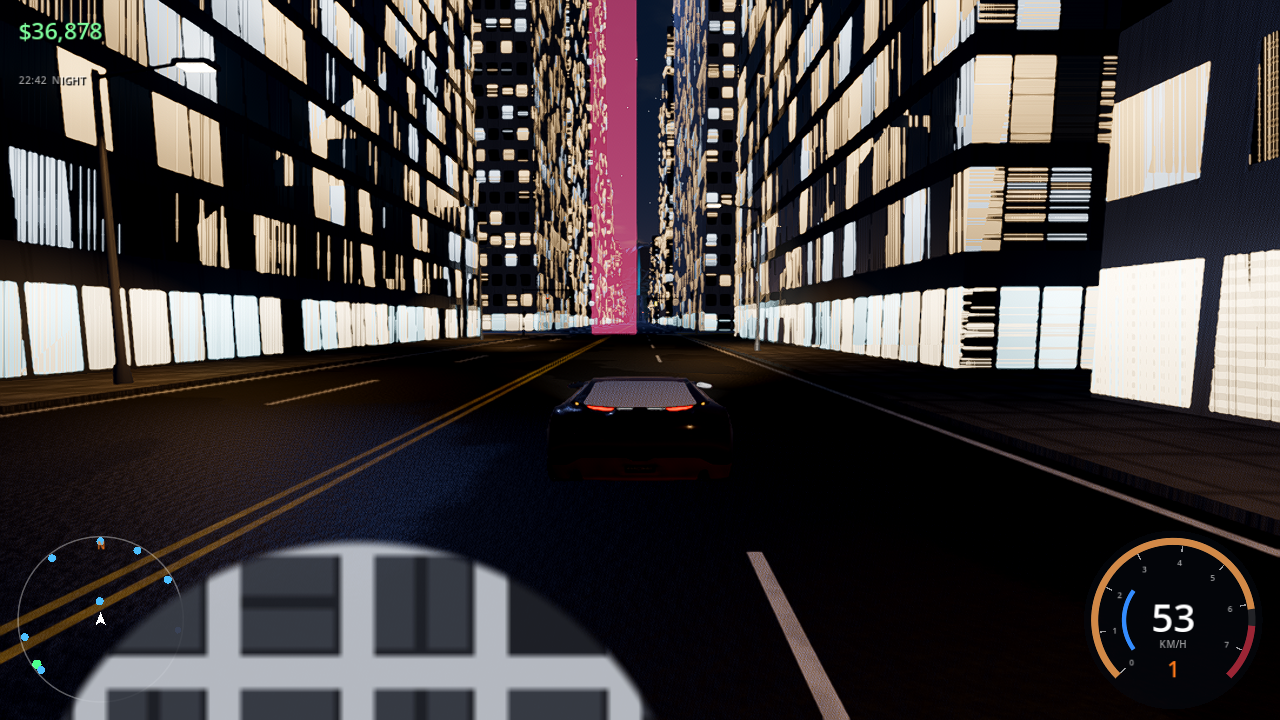
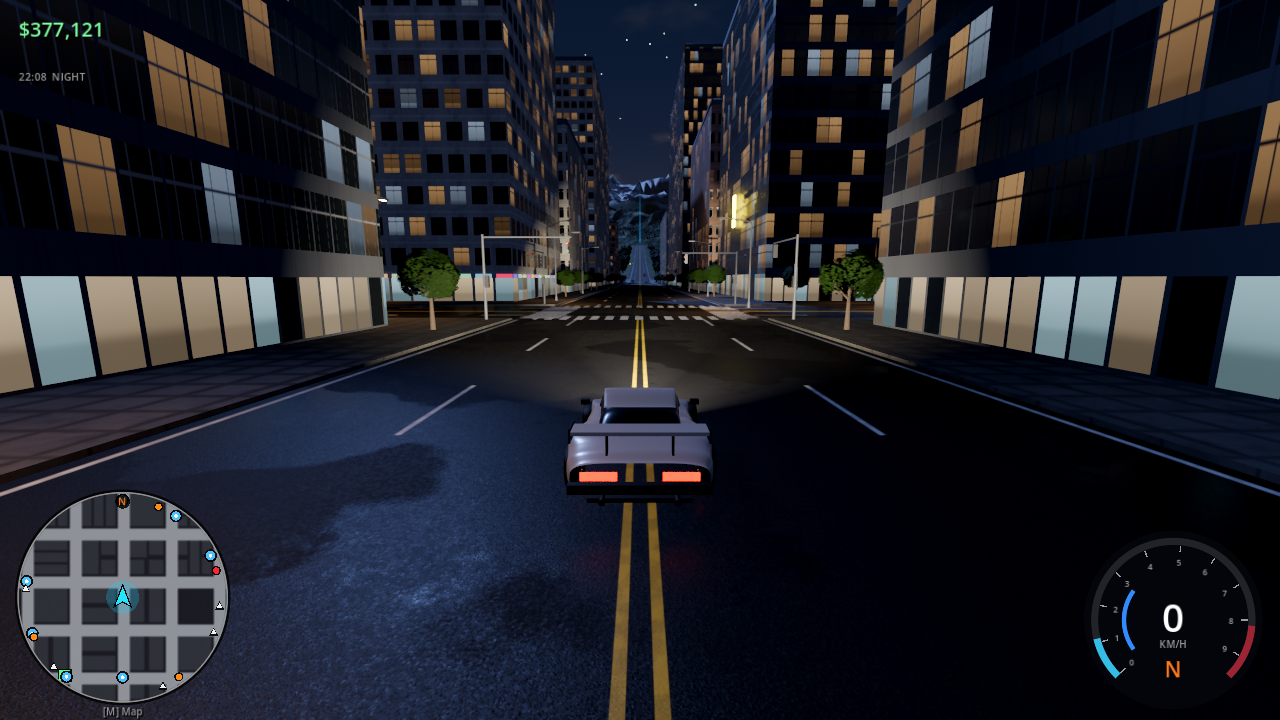
README: Forward+ screenshots of the valley, downtown at night and the Vespera RSR

diff --git a/README.md b/README.md
@@ -8,9 +8,10 @@ Open-world getaway-driving game built with **Godot 4.7**. You're a driver for hi
 
 | | |
 |---|---|
-| ![Rain in the city](docs/screenshots/city_rain.png) | ![City at night](docs/screenshots/city_night.png) |
-| ![Stallion '69](docs/screenshots/stallion69.png) | ![Mountain pass](docs/screenshots/mountain_pass.png) |
-| ![Countryside](docs/screenshots/countryside.png) | ![Downtown](docs/screenshots/city_day.png) |
+| ![Rain in the city](docs/screenshots/city_rain.png) | ![Stallion '69](docs/screenshots/stallion69.png) |
+| ![Mountain pass](docs/screenshots/mountain_pass.png) | ![Countryside](docs/screenshots/countryside.png) |
+| ![Downtown](docs/screenshots/city_day.png) | ![Vespera RSR](docs/screenshots/vespera_rsr.png) |
+| ![Downtown at night](docs/screenshots/city_night.png) | |
 
 | | |
 |---|---|
